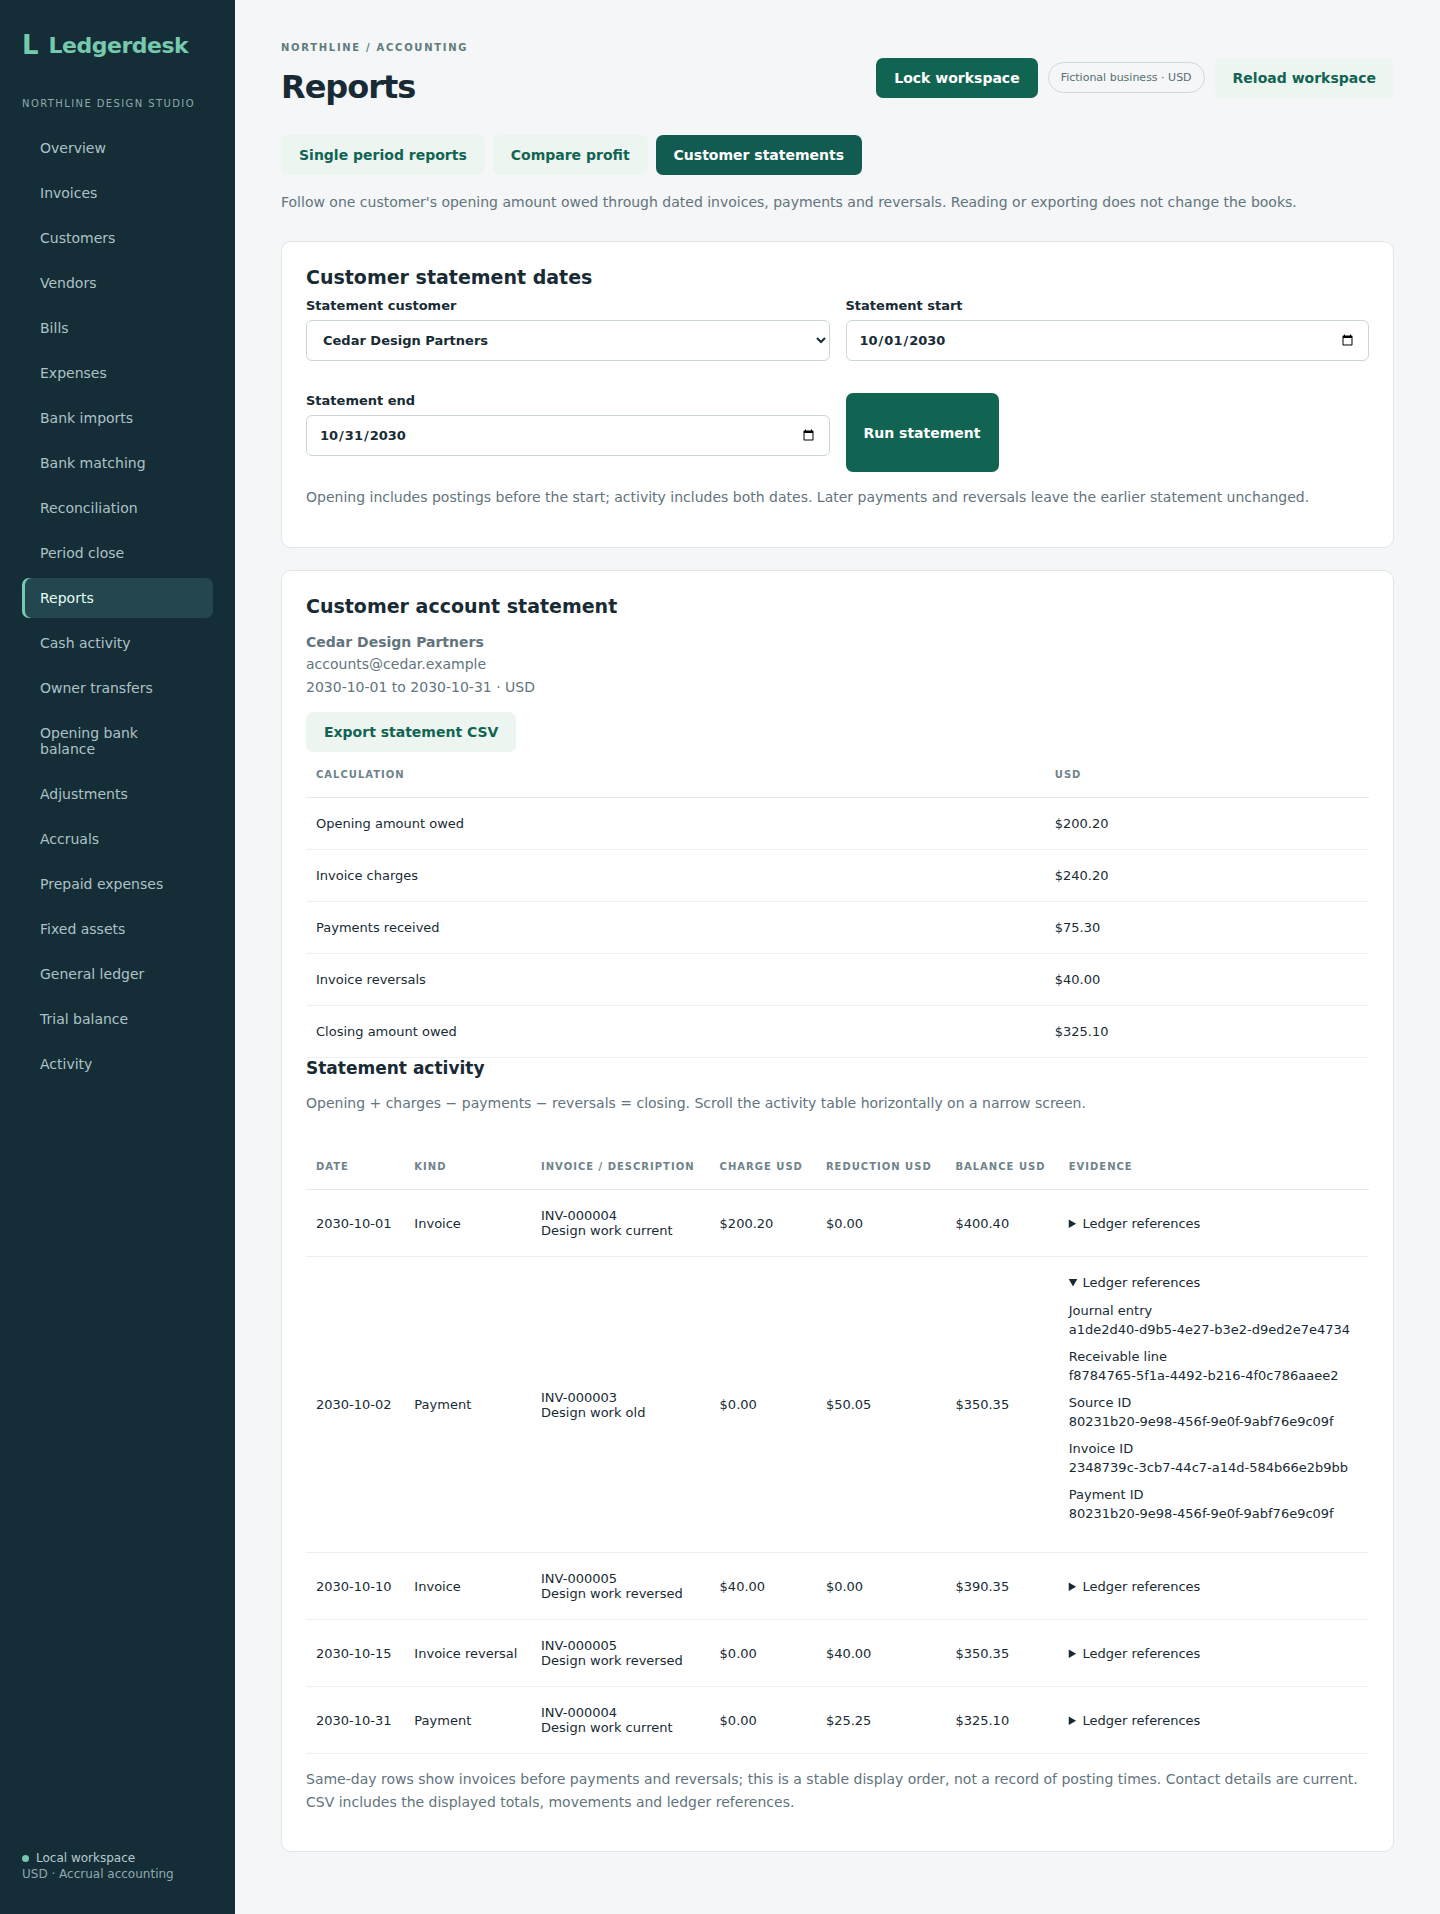
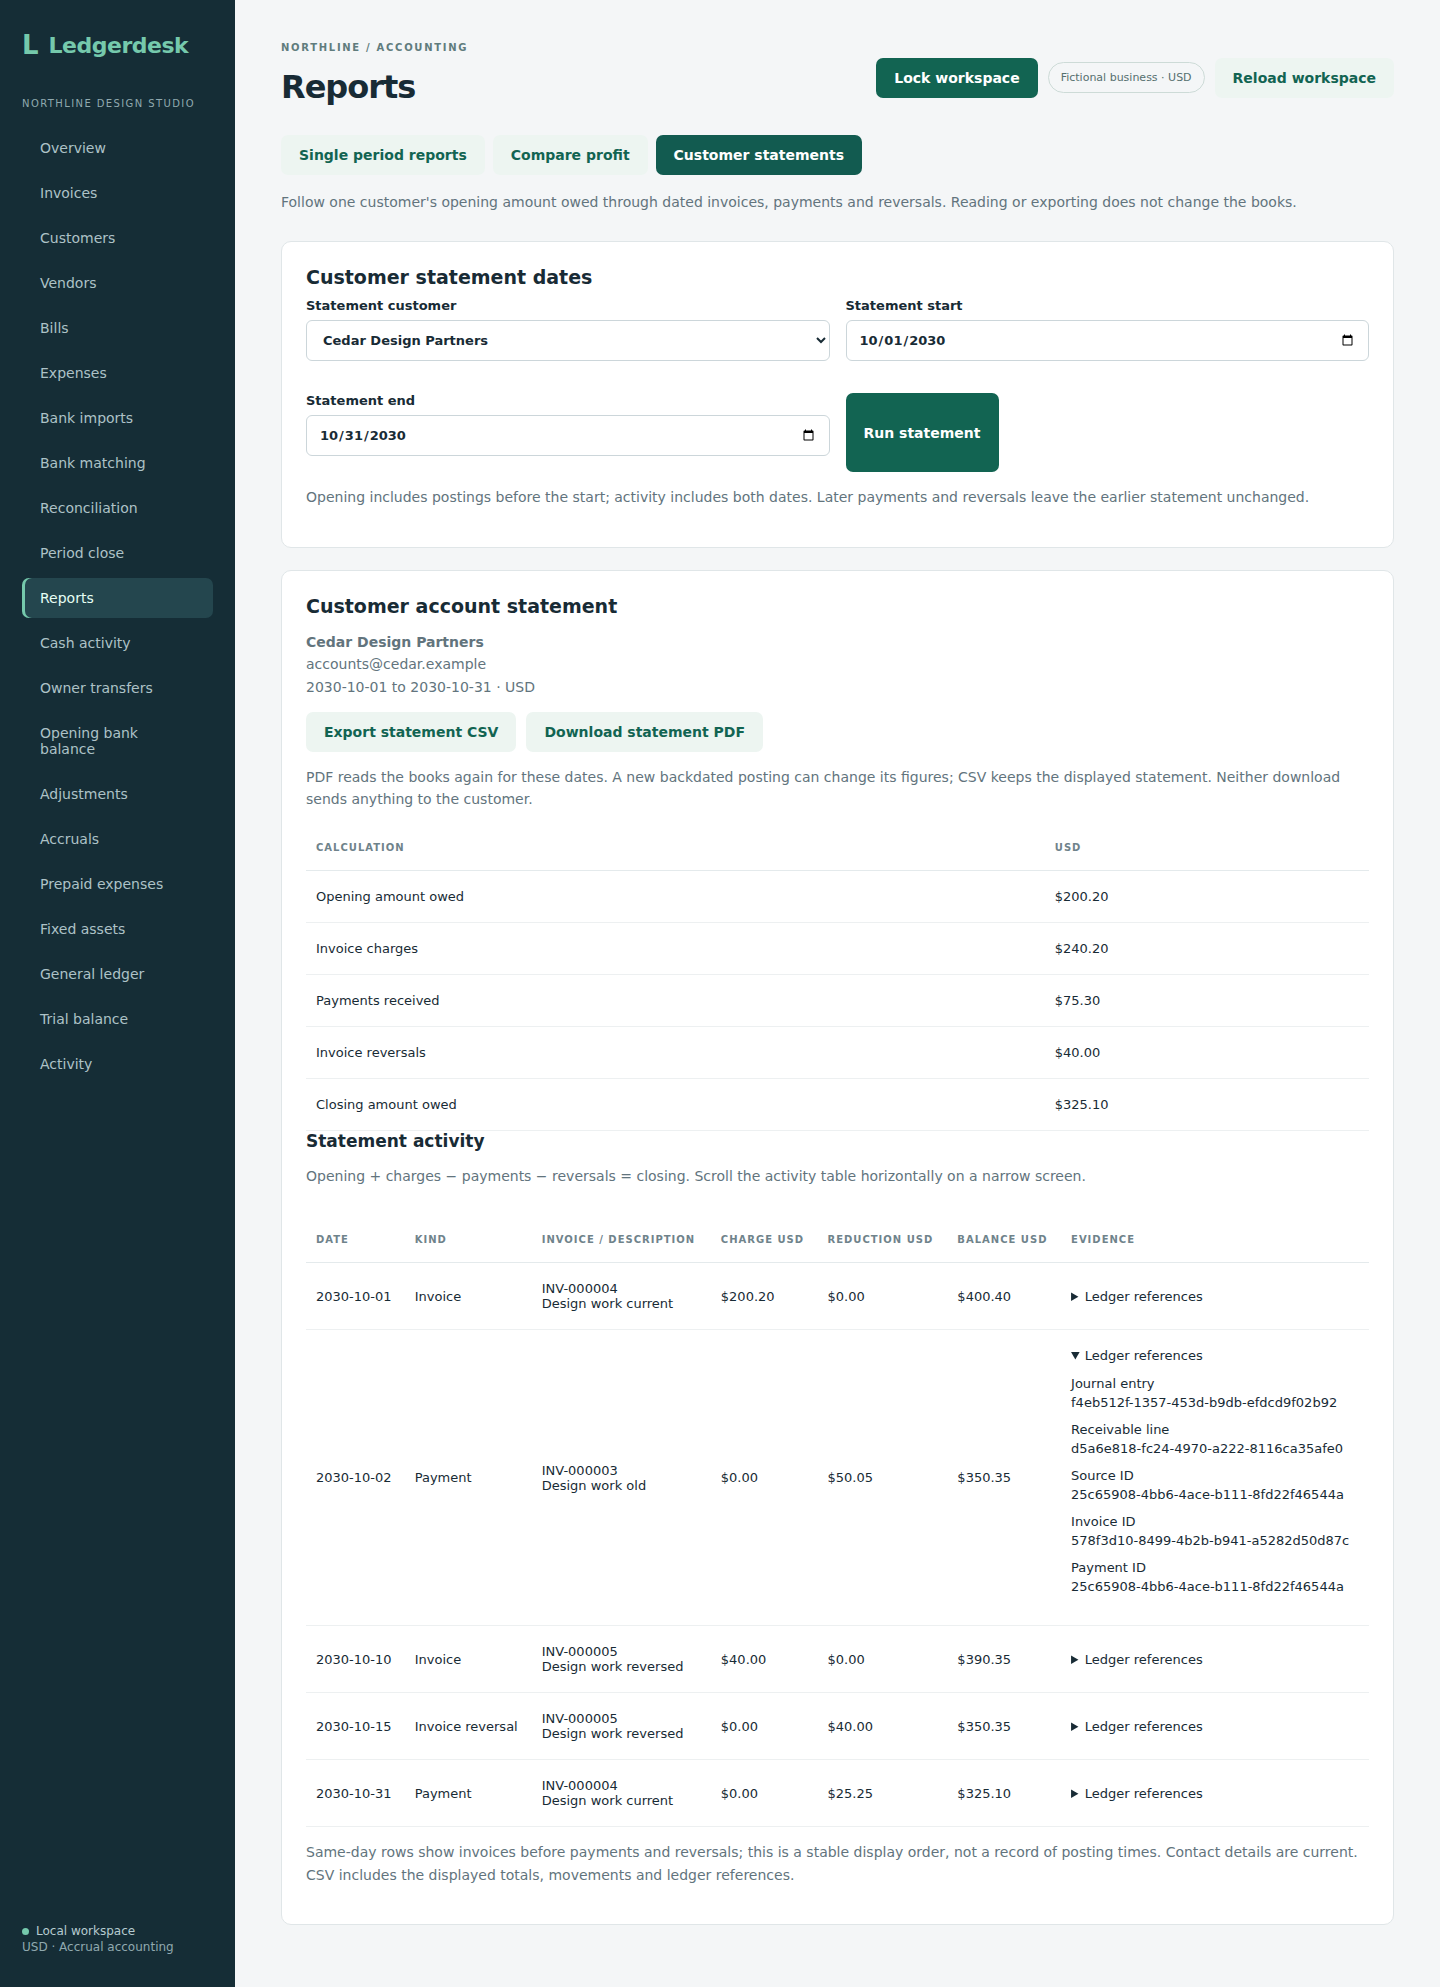
Update statement download instructions and screen proof

diff --git a/docs/customer-statements.md b/docs/customer-statements.md
@@ -39,7 +39,7 @@ The read uses one repeatable-read transaction. Customer, invoice and entry queri
 
 Six integration tests cover known opening/movement/closing amounts, payment-to-invoice linkage, inclusive boundaries, agreement with dated receivable aging, unchanged accounting/activity/commands, later settlements and reversals, same-day ordering, exact split payments, stable line IDs, empty/date-limit cases, drafts/future invoices, other customers/businesses, authentication/reading roles, cache headers and invalid parameters. Run `mvn -f backend/pom.xml -Dtest=CustomerStatementTest test` against a disposable test database. Source `f6e64af527261dcb29d5dd5a72f40762535f04b1` passed all three jobs in [run 37230201532](https://github.com/Arhaam-Azhari/ledgerdesk/actions/runs/37230201532): 281 integration tests on each of H2 and PostgreSQL 17 with zero failures/errors/skips, 14 backup-tool tests, production frontend build, all 24 existing Chromium workflows and native PostgreSQL restoration. The initial test annotation import was corrected before this passing checkpoint. At that API checkpoint, browser checks covered existing screens. Statement-screen verification follows below.
 
-This covers the supported invoice/payment/reversal workflow. Opening unpaid-document migration, credit notes, refunds, arbitrary receivable journals, foreign currencies, historical contact versions and delivery remain outside the scope. The screen and CSV are internal accounting tools. The PDF API is described below; its browser download button and customer delivery are separate workflows.
+This covers the supported invoice/payment/reversal workflow. Opening unpaid-document migration, credit notes, refunds, arbitrary receivable journals, foreign currencies, historical contact versions and delivery remain outside the scope. The screen and CSV are internal accounting tools. The PDF download is described below. Customer delivery remains outside the current scope.
 
 
 ## Screen and CSV
@@ -72,15 +72,31 @@ This endpoint downloads `ledgerdesk-customer-statement-2030-10-01-2030-10-31.pdf
 
 The PDF carries current customer details, both dates, the five summary amounts, dated invoice/payment/reversal activity, descriptions and running balances. It reads a fresh statement in one repeatable-read transaction. Later-dated payments leave earlier figures intact; a new backdated posting can change a subsequent download. CSV exports the displayed snapshot, while this API reads the books again. Reading or downloading creates no accounting, audit or request-key rows.
 
-The invoice and statement renderers share embedded-font wrapping and pagination. Page footers repeat the selected period and page number. Long names, emails and descriptions wrap; unsupported font characters appear as `[U+XXXX]` with an explanatory note. The PDF is an internal accounting copy: ledger IDs remain available in the screen/CSV, and payment instructions and delivery are not configured. A download button on the statement screen is the next step.
+The invoice and statement renderers share embedded-font wrapping and pagination. Page footers repeat the selected period and page number. Long names, emails and descriptions wrap; unsupported font characters appear as `[U+XXXX]` with an explanatory note. The PDF is an internal accounting copy: ledger IDs remain available in the screen/CSV, and payment instructions and delivery are not configured. The screen uses this endpoint through **Download statement PDF**.
 
 Run `mvn -f backend/pom.xml -Dtest=CustomerStatementPdfTest,LedgerWorkflowTest test` against a disposable test database. Five new PDF tests cover the worked $325.10 historical closing after later settlement, unchanged journal/activity/request keys, empty carried balances, date limits, all reading roles, invalid requests, Unicode/control text and multipage content. The multipage check also measures every glyph against page margins. Existing invoice PDF tests cover number, payment balance, void status, pagination and character fallback after the shared-layout extraction. CI retains `statement-pdf-proof` with a worked statement and a deliberately long multipage fixture for visual review.
 
 
-PDF source `976e5097a068a58d6e1cd0de623cc4fe98afc8a3` passed 286 integration tests on each of H2 and PostgreSQL 17, with zero failures/errors/skips, and 14 backup-tool tests in [run 37233147797](https://github.com/Arhaam-Azhari/ledgerdesk/actions/runs/37233147797). The production frontend build, all 25 existing Chromium workflows and native PostgreSQL restoration also passed. Browser checks are regression evidence here; the PDF button is not yet present. The first fixture used a name above the database's 120-character limit; the corrected checkpoint changes only that test name. Original generated PDF artifacts were downloaded, and the worked page plus all six long-text pages were rendered and visually reviewed. There was no clipping or overlap; selected periods and page numbers remained readable throughout.
+PDF source `976e5097a068a58d6e1cd0de623cc4fe98afc8a3` passed 286 integration tests on each of H2 and PostgreSQL 17, with zero failures/errors/skips, and 14 backup-tool tests in [run 37233147797](https://github.com/Arhaam-Azhari/ledgerdesk/actions/runs/37233147797). The production frontend build, all 25 existing Chromium workflows and native PostgreSQL restoration also passed. At that API checkpoint, browser checks were regression evidence and the PDF button was not yet present. The first fixture used a name above the database's 120-character limit; the corrected checkpoint changes only that test name. Original generated PDF artifacts were downloaded, and the worked page plus all six long-text pages were rendered and visually reviewed. There was no clipping or overlap; selected periods and page numbers remained readable throughout.
 
 ### Rendered PDF proof
 
 The [downloadable sample](examples/customer-statement.pdf) is the original PDF from the passing test, using fictional Cedar Design Partners activity in October 2030. Its closing $325.10 remains after November settlement. The preview below is rendered from that PDF, rather than a mockup. The six-page fixture is retained in the run's `statement-pdf-proof` artifact.
 
 ![Rendered customer statement PDF with dated activity and a $325.10 closing balance](screenshots/customer-statement-pdf.png)
+
+
+## Downloading from Reports
+
+After **Run statement**, choose **Download statement PDF** beside the CSV button. The download uses the displayed customer and dates and names the file with both dates. Owners, bookkeepers and reviewers can download. A missing or cleared statement has no download button; customer/date changes, reload and report-mode changes clear the old result.
+
+PDF reads fresh books. If someone posts another entry dated within or before the period, rerun the statement to compare the latest figures before downloading. CSV keeps the displayed snapshot. Neither action emails the customer or changes the books.
+
+While a download is pending, the date/customer editor and exports are disabled. If it fails, the statement stays visible and an error appears; choose the PDF button again to retry. The browser checks HTTP success, PDF content type and the opening `%PDF-` signature before saving, so a typical error page or wrong response is not downloaded as a document. These format checks are not a general validator for arbitrary uploaded PDFs.
+
+The extended reports scenario checks authenticated PDF response bytes, filename, customer/date parameters, no-store/nosniff headers, disabled controls during a held request, 503 and malformed-response recovery, a successful retry, an empty period with carried balance, result clearing and unchanged books. Bookkeeper and reviewer scenarios also download statements. Use `npm run test:reports`, `npm run test:bookkeeper` and `npm run test:reviewer` after packaging the backend and installing Chromium.
+
+
+Screen source `f8bd8c032e49d6984aff0d8fb3c7213a0e190d8c` passed all three jobs in [run 37234033962](https://github.com/Arhaam-Azhari/ledgerdesk/actions/runs/37234033962): 286 integration tests on each of H2 and PostgreSQL 17, zero failures/errors/skips, 14 backup-tool tests, production build, all 25 Chromium workflows and native PostgreSQL restoration. The statement scenario downloaded the actual PDF, verified its customer/dates/headers/signature, held a request to check disabled controls, rejected 503/HTML/malformed-PDF responses, retried successfully and checked an empty carried period. Bookkeeper and reviewer scenarios also downloaded statements.
+
+Updated desktop/mobile captures were downloaded and visually reviewed, replacing the earlier versions at the same paths. Buttons have spacing on desktop and stack on the 390-pixel screen; the page fits while the movement table scrolls independently. The PDF saved by Chromium was extracted and rendered for review and shows the same $325.10 closing, dated movements and contact as the screen. It is retained as `report-results/customer-statement-download.pdf` in the run's `browser-results` artifact. The separate API sample and browser scenario use their own fictional fixtures with the same balances.

diff --git a/docs/verification.md b/docs/verification.md
@@ -270,3 +270,13 @@ The initial dropdown lookup was corrected to use its accessible role/name before
 PDF source `976e5097a068a58d6e1cd0de623cc4fe98afc8a3` passed 286 integration tests on each of H2 and PostgreSQL 17, with zero failures/errors/skips, and 14 backup-tool tests in [run 37233147797](https://github.com/Arhaam-Azhari/ledgerdesk/actions/runs/37233147797). The production frontend build, all 25 existing Chromium workflows and native PostgreSQL restoration also passed. Browser checks are regression evidence here; the PDF button is not yet present. The first fixture used a name above the database's 120-character limit; the corrected checkpoint changes only that test name. Original generated PDF artifacts were downloaded, and the worked page plus all six long-text pages were rendered and visually reviewed. There was no clipping or overlap; selected periods and page numbers remained readable throughout.
 
 Five new tests cover historical summary/activity after later settlement, no ledger/audit/request-key writes, carried empty balances, date limits, reading-role access, invalid dates/customers, Unicode/control handling and multipage glyph bounds. Existing invoice PDF regressions also pass through the extracted shared layout. See [API instructions, original PDF and rendered proof](customer-statements.md#pdf-download-api). The statement browser download button and customer delivery are separate steps.
+
+
+## Customer statement PDF button
+
+
+Screen source `f8bd8c032e49d6984aff0d8fb3c7213a0e190d8c` passed all three jobs in [run 37234033962](https://github.com/Arhaam-Azhari/ledgerdesk/actions/runs/37234033962): 286 integration tests on each of H2 and PostgreSQL 17, zero failures/errors/skips, 14 backup-tool tests, production build, all 25 Chromium workflows and native PostgreSQL restoration. The statement scenario downloaded the actual PDF, verified its customer/dates/headers/signature, held a request to check disabled controls, rejected 503/HTML/malformed-PDF responses, retried successfully and checked an empty carried period. Bookkeeper and reviewer scenarios also downloaded statements.
+
+Updated desktop/mobile captures were downloaded and visually reviewed, replacing the earlier versions at the same paths. Buttons have spacing on desktop and stack on the 390-pixel screen; the page fits while the movement table scrolls independently. The PDF saved by Chromium was extracted and rendered for review and shows the same $325.10 closing, dated movements and contact as the screen. It is retained as `report-results/customer-statement-download.pdf` in the run's `browser-results` artifact. The separate API sample and browser scenario use their own fictional fixtures with the same balances.
+
+See [download instructions and current captures](customer-statements.md#downloading-from-reports). Customer delivery is outside this milestone.

diff --git a/README.md b/README.md
@@ -322,4 +322,4 @@ Open **Reports** and choose **Compare profit** to compare two explicit, non-over
 
 ## Customer statements
 
-Open **Reports**, choose **Customer statements**, select a customer and inclusive dates, then **Run statement**. Review the opening amount owed, invoices, payments, reversals and closing amount. Expand **Ledger references** to inspect the source evidence; **Export statement CSV** downloads the displayed statement with both dates and ledger IDs. Later settlements leave earlier figures intact. See [instructions, worked amounts and verification](docs/customer-statements.md). The authenticated PDF API downloads a fresh dated statement; its screen button and customer delivery remain next steps.
+Open **Reports**, choose **Customer statements**, select a customer and inclusive dates, then **Run statement**. Review the opening amount owed, invoices, payments, reversals and closing amount. Expand **Ledger references** to inspect the source evidence; **Export statement CSV** downloads the displayed statement with both dates and ledger IDs. Later settlements leave earlier figures intact. See [instructions, worked amounts and verification](docs/customer-statements.md). **Download statement PDF** reads a fresh statement for the displayed customer and dates. Customer delivery remains outside the current scope.

diff --git a/docs/project-status.md b/docs/project-status.md
@@ -6,7 +6,7 @@ Ledgerdesk currently works as a local, single-business USD accounting applicatio
 | --- | --- |
 | Sales and purchases | Invoices, bills, direct expenses, payments, retained corrections and receipt attachments implemented |
 | Ledger and reports | Balanced entries, trial balance, dated financial reports, customer/vendor aging, cash activity and CSV exports implemented |
-| Customer statements | Dated opening/activity/closing API, customer selector, movement evidence, CSV export and PDF API implemented; PDF button remains |
+| Customer statements | Dated opening/activity/closing API, customer selector, movement evidence, CSV export and PDF download implemented |
 | Profit comparison | Two-period accounting API, browser editor, category/total changes and dated CSV export implemented |
 | Bank evidence | CSV import, reviewed matching, statement reconciliation and closed-date protections implemented |
 | Accounting adjustments | Owner transfers, expense reclassification, accruals and bill handoff, prepaid schedules and straight-line asset depreciation implemented |

diff --git a/docs/development-history.md b/docs/development-history.md
@@ -33,6 +33,7 @@ Ledgerdesk grew from an invoicing workspace into a local accounting application.
 | [#27](https://github.com/Arhaam-Azhari/ledgerdesk/pull/27) | Add dated customer statement accounting and traceable ledger movements |
 | [#28](https://github.com/Arhaam-Azhari/ledgerdesk/pull/28) | Add customer statement screen, ledger references and dated CSV export |
 | [#29](https://github.com/Arhaam-Azhari/ledgerdesk/pull/29) | Add authenticated dated customer statement PDF downloads and rendered proof |
+| [#30](https://github.com/Arhaam-Azhari/ledgerdesk/pull/30) | Download customer statement PDFs from Reports with retry and role checks |
 
 The descriptions record the supported scope and remaining work at that milestone. For example, the reviewer PR used configured logins; the later account PR added database-backed users. Read the current README and feature guides for today's behavior.
 
